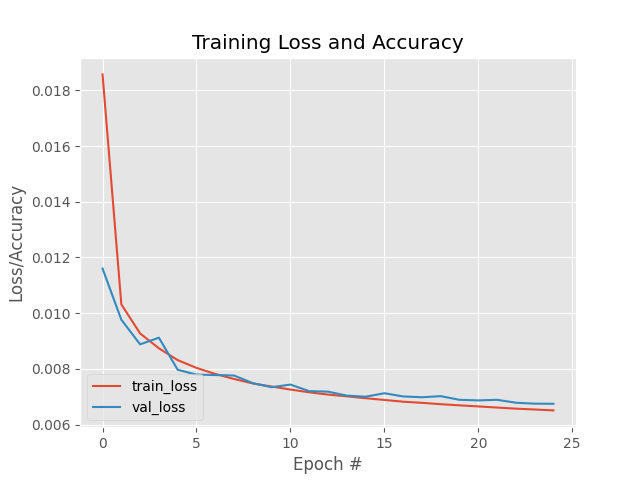
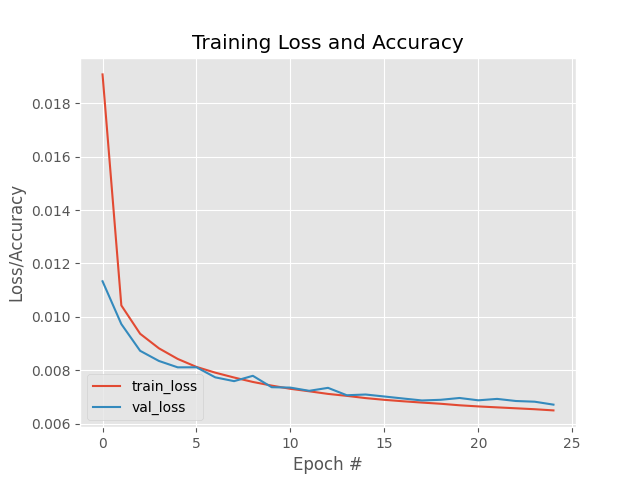
Add denoising autoencoder

diff --git a/Deep_Learning/autoencoders/autoencoder_2/train_denoising_autoencoder.py b/Deep_Learning/autoencoders/autoencoder_2/train_denoising_autoencoder.py
@@ -1,0 +1,106 @@
+# USAGE
+# python train_denoising_autoencoder.py
+
+# set the matplotlib backend so figures can be saved in the background
+import matplotlib
+matplotlib.use("Agg")
+
+from tensorflow.compat.v1 import ConfigProto
+from tensorflow.compat.v1 import InteractiveSession
+
+config = ConfigProto()
+config.gpu_options.allow_growth = True
+session = InteractiveSession(config=config)
+
+# import the necessary packages
+from sunt.conv_autoencoder import ConvAutoencoder
+from tensorflow.keras.optimizers import Adam
+from tensorflow.keras.datasets import mnist
+import matplotlib.pyplot as plt
+import numpy as np
+import argparse
+import cv2
+
+# construct the argument parse and parse the arguments
+ap = argparse.ArgumentParser()
+ap.add_argument("-s", "--samples", type=int, default=8,
+	help="# number of samples to visualize when decoding")
+ap.add_argument("-o", "--output", type=str, default="output.png",
+	help="path to output visualization file")
+ap.add_argument("-p", "--plot", type=str, default="plot.png",
+	help="path to output plot file")
+args = vars(ap.parse_args())
+
+# initialize the number of epochs to train for and batch size
+EPOCHS = 25
+BS = 32
+
+# load the MNIST dataset
+print("[INFO] loading MNIST dataset...")
+((trainX, _), (testX, _)) = mnist.load_data()
+
+# add a channel dimension to every image in the dataset, then scale
+# the pixel intensities to the range [0, 1]
+trainX = np.expand_dims(trainX, axis=-1)
+testX = np.expand_dims(testX, axis=-1)
+trainX = trainX.astype("float32") / 255.0
+testX = testX.astype("float32") / 255.0
+
+# sample noise from a random normal distribution centered at 0.5 (since
+# our images lie in the range [0, 1]) and a standard deviation of 0.5
+trainNoise = np.random.normal(loc=0.5, scale=0.5, size=trainX.shape)
+testNoise = np.random.normal(loc=0.5, scale=0.5, size=testX.shape)
+trainXNoisy = np.clip(trainX + trainNoise, 0, 1)
+testXNoisy = np.clip(testX + testNoise, 0, 1)
+
+# construct our convolutional autoencoder
+print("[INFO] building autoencoder...")
+(encoder, decoder, autoencoder) = ConvAutoencoder.build(28, 28, 1)
+opt = Adam(lr=1e-3)
+autoencoder.compile(loss="mse", optimizer=opt)
+
+# train the convolutional autoencoder
+H = autoencoder.fit(
+	trainXNoisy, trainX,
+	validation_data=(testXNoisy, testX),
+	epochs=EPOCHS,
+	batch_size=BS)
+
+# construct a plot that plots and saves the training history
+N = np.arange(0, EPOCHS)
+plt.style.use("ggplot")
+plt.figure()
+plt.plot(N, H.history["loss"], label="train_loss")
+plt.plot(N, H.history["val_loss"], label="val_loss")
+plt.title("Training Loss and Accuracy")
+plt.xlabel("Epoch #")
+plt.ylabel("Loss/Accuracy")
+plt.legend(loc="lower left")
+plt.savefig(args["plot"])
+
+# use the convolutional autoencoder to make predictions on the
+# testing images, then initialize our list of output images
+print("[INFO] making predictions...")
+decoded = autoencoder.predict(testXNoisy)
+outputs = None
+
+# loop over our number of output samples
+for i in range(0, args["samples"]):
+	# grab the original image and reconstructed image
+	original = (testXNoisy[i] * 255).astype("uint8")
+	recon = (decoded[i] * 255).astype("uint8")
+
+	# stack the original and reconstructed image side-by-side
+	output = np.hstack([original, recon])
+
+	# if the outputs array is empty, initialize it as the current
+	# side-by-side image display
+	if outputs is None:
+		outputs = output
+
+	# otherwise, vertically stack the outputs
+	else:
+		outputs = np.vstack([outputs, output])
+
+# save the outputs image to disk
+cv2.imwrite(args["output"], outputs)

diff --git a/Deep_Learning/autoencoders/autoencoder_2/sunt/conv_autoencoder.py b/Deep_Learning/autoencoders/autoencoder_2/sunt/conv_autoencoder.py
@@ -1,0 +1,71 @@
+# import the necessary packages
+from tensorflow.keras.layers import BatchNormalization
+from tensorflow.keras.layers import Conv2D
+from tensorflow.keras.layers import Conv2DTranspose
+from tensorflow.keras.layers import LeakyReLU
+from tensorflow.keras.layers import Activation
+from tensorflow.keras.layers import Flatten
+from tensorflow.keras.layers import Dense
+from tensorflow.keras.layers import Reshape
+from tensorflow.keras.layers import Input
+from tensorflow.keras.models import Model
+from tensorflow.keras import backend as K
+import numpy as np
+
+class ConvAutoencoder:
+	@staticmethod
+	def build(width, height, depth, filters=(32, 64), latentDim=16):
+		# initialize the input shape to be "channels last" along with
+		# the channels dimension itself
+		# channels dimension itself
+		inputShape = (height, width, depth)
+		chanDim = -1
+
+		# define the input to the encoder
+		inputs = Input(shape=inputShape)
+		x = inputs
+
+		# loop over the number of filters
+		for f in filters:
+			# apply a CONV => RELU => BN operation
+			x = Conv2D(f, (3, 3), strides=2, padding="same")(x)
+			x = LeakyReLU(alpha=0.2)(x)
+			x = BatchNormalization(axis=chanDim)(x)
+
+		# flatten the network and then construct our latent vector
+		volumeSize = K.int_shape(x)
+		x = Flatten()(x)
+		latent = Dense(latentDim)(x)
+
+		# build the encoder model
+		encoder = Model(inputs, latent, name="encoder")
+
+		# start building the decoder model which will accept the
+		# output of the encoder as its inputs
+		latentInputs = Input(shape=(latentDim,))
+		x = Dense(np.prod(volumeSize[1:]))(latentInputs)
+		x = Reshape((volumeSize[1], volumeSize[2], volumeSize[3]))(x)
+
+		# loop over our number of filters again, but this time in
+		# reverse order
+		for f in filters[::-1]:
+			# apply a CONV_TRANSPOSE => RELU => BN operation
+			x = Conv2DTranspose(f, (3, 3), strides=2,
+				padding="same")(x)
+			x = LeakyReLU(alpha=0.2)(x)
+			x = BatchNormalization(axis=chanDim)(x)
+
+		# apply a single CONV_TRANSPOSE layer used to recover the
+		# original depth of the image
+		x = Conv2DTranspose(depth, (3, 3), padding="same")(x)
+		outputs = Activation("sigmoid")(x)
+
+		# build the decoder model
+		decoder = Model(latentInputs, outputs, name="decoder")
+
+		# our autoencoder is the encoder + decoder
+		autoencoder = Model(inputs, decoder(encoder(inputs)),
+			name="autoencoder")
+
+		# return a 3-tuple of the encoder, decoder, and autoencoder
+		return (encoder, decoder, autoencoder)
